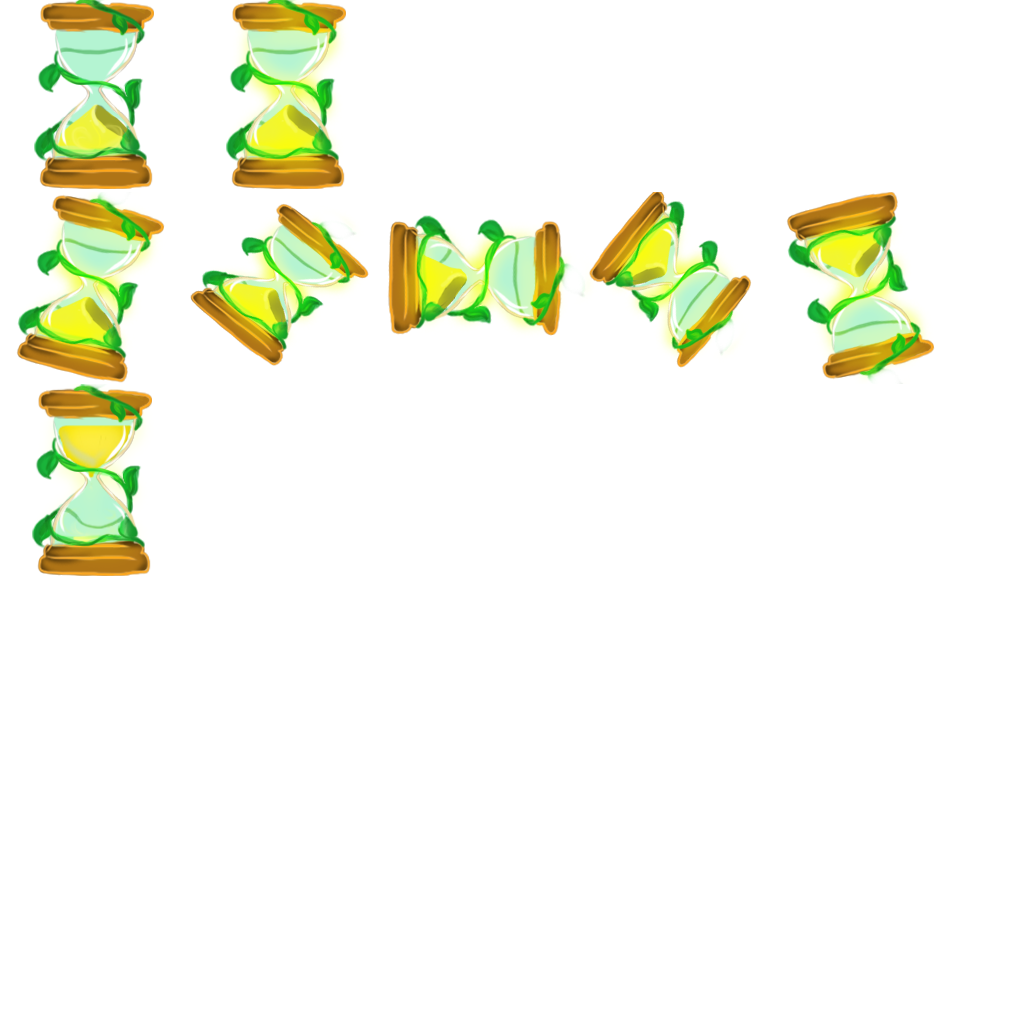
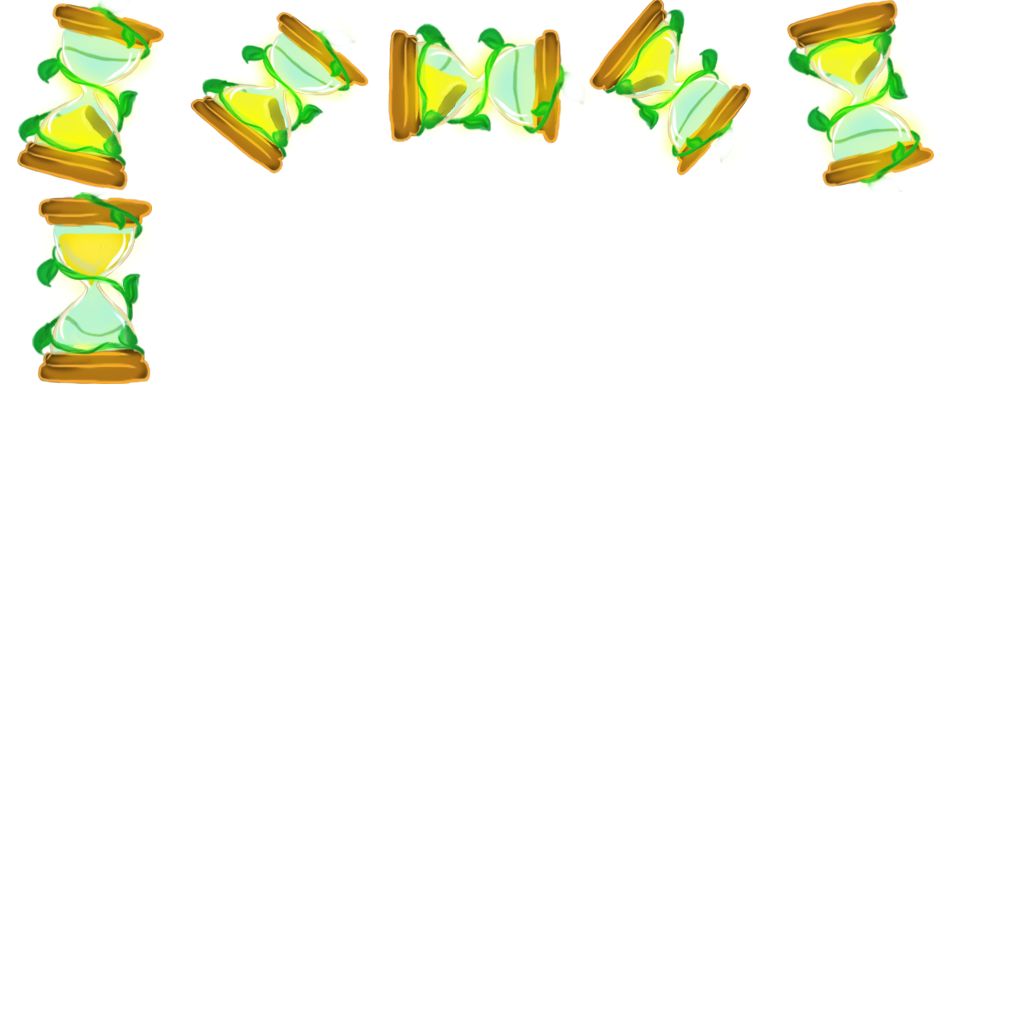
Adjusted HourGlass animations

Changed region(s): [[0.1875, 0.0, 0.75, 0.375], [0.0, 0.0, 0.1562, 0.5625], [0.75, 0.0, 0.9062, 0.375]]

diff --git a/Shooty(JX)/Shooty/core/src/com/eye7/ShootyWooty/object/Timer.java b/Shooty(JX)/Shooty/core/src/com/eye7/ShootyWooty/object/Timer.java
@@ -89,17 +89,17 @@ class HourGlass extends Actor {
         //Import and build animation
         hourglassSkin = new Skin(new TextureAtlas(Gdx.files.internal("ShootyUI/hourglass1.pack")));
         hourglassSkin.addRegions(new TextureAtlas(Gdx.files.internal("ShootyUI/hourglass2.pack")));
-        TextureRegion[] hourglassTimer = new TextureRegion[27];
+        TextureRegion[] hourglassTimer = new TextureRegion[30];
         TextureRegion[] hourglassTurn = new TextureRegion[6];
 
-        for (int i = 0; i < 27; i++) {
+        for (int i = 0; i < 30; i++) {
             hourglassTimer[i] = new TextureRegion (hourglassSkin.getRegion("hourglass.timer." + String.valueOf(i+1)));
         }
         for (int i = 0; i < 6; i++) {
             hourglassTurn[i] = new TextureRegion (hourglassSkin.getRegion("hourglass.turn." + String.valueOf(i+1)));
         }
 
-        hourglassTimerAnimation = new Animation((float) GameConstants.TIME_LIMIT/27, hourglassTimer);
+        hourglassTimerAnimation = new Animation((float) GameConstants.TIME_LIMIT/30, hourglassTimer);
         hourglassTurnAnimation = new Animation(0.2f, hourglassTurn);
 
         attachActionMenu();

diff --git a/Shooty(JX)/Shooty/core/src/com/eye7/ShootyWooty/render/DisplayMap.java b/Shooty(JX)/Shooty/core/src/com/eye7/ShootyWooty/render/DisplayMap.java
@@ -63,8 +63,10 @@ public class DisplayMap implements InputProcessor {
         gameMap = new GameMap(tiledMap);
         gameMap.setUpPlayers(GameConstants.NUM_PLAYERS);
 
-        shapeRenderer = new ShapeRenderer();
-        shapeRenderer.setProjectionMatrix(camera.combined);
+        if(GameConstants.DEBUG) {
+            shapeRenderer = new ShapeRenderer();
+            shapeRenderer.setProjectionMatrix(camera.combined);
+        }
     }
 
     public void render (float delta) {
@@ -76,12 +78,7 @@ public class DisplayMap implements InputProcessor {
         tiledMapRenderer.render();
         gameMap.render(mapBatch, delta);
 
-        /*
-        shapeRenderer.begin(ShapeRenderer.ShapeType.Line);
-        shapeRenderer.setColor(Color.RED);
-        shapeRenderer.rect(screenXStart + 10,screenYStart + 10,Gdx.graphics.getWidth()/2 - 20,Gdx.graphics.getHeight()/2 - 20);
-        shapeRenderer.end();
-        */
+
 
     }
 
